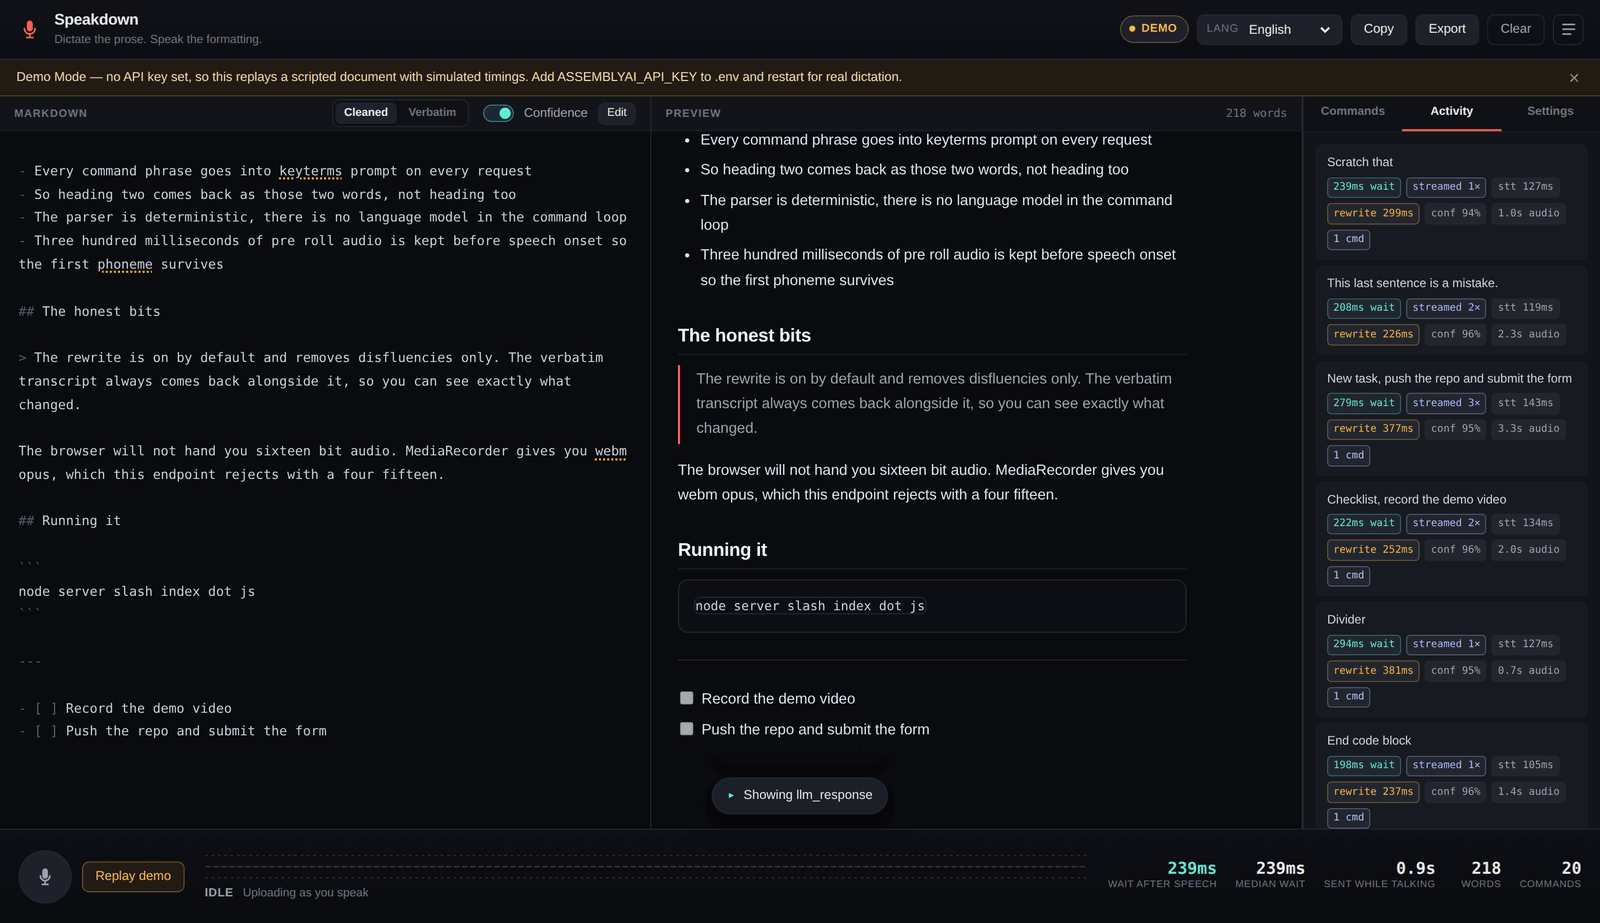
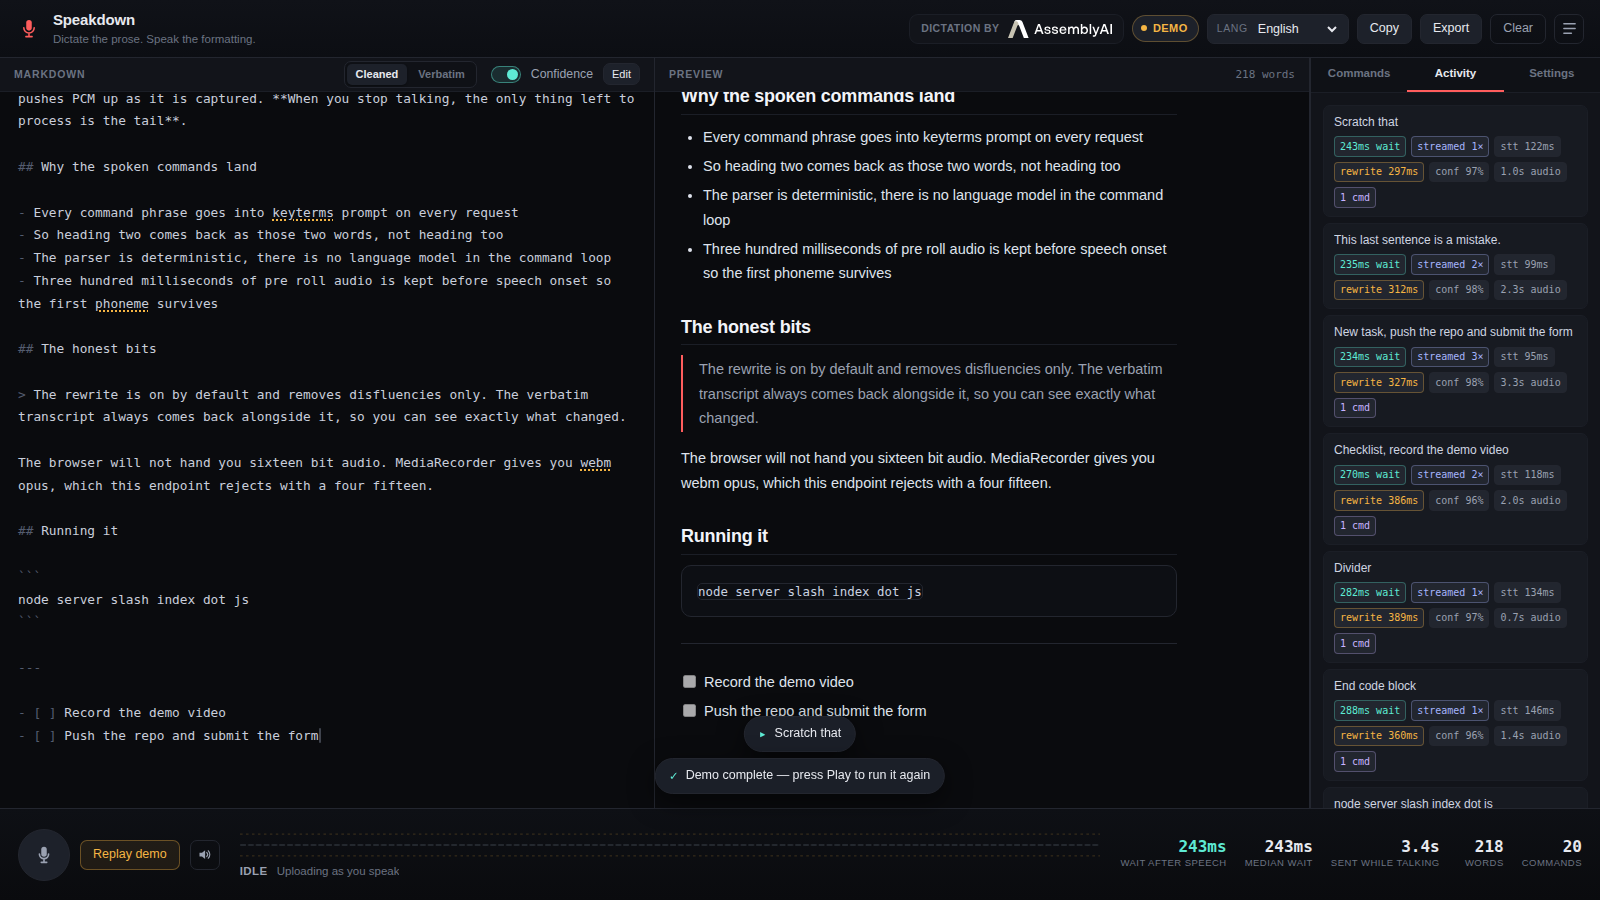
README: embed the 2-minute demo video, fresh screenshots, caret and hand-edit notes

diff --git a/README.md b/README.md
@@ -7,11 +7,15 @@ You talk; structured markdown appears. Say "heading two" and you get a heading.
 Say "bullet list" and you get a list. Say "scratch that" and the last thing you
 said disappears. No keyboard, no toolbar, no mouse.
 
-![Speakdown](docs/screenshot.png)
+<a href="https://www.loom.com/share/af9a5d7fbd77441190c862009f1a4126">
+  <img src="docs/loom-voiced.jpg" alt="Watch the 2-minute demo" width="100%">
+</a>
+
+**▶ [Watch the 2-minute demo](https://www.loom.com/share/af9a5d7fbd77441190c862009f1a4126)**
 
 Built for AssemblyAI's Voice Hackathon Week, September 2026.
-**Demo video:** <https://www.loom.com/share/fbd68c400d7c44d5bddbf64c3387c301>
-**The voiced demo, recorded:** <https://www.loom.com/share/af9a5d7fbd77441190c862009f1a4126>
+
+![Speakdown](docs/screenshot.png)
 
 ---
 
@@ -202,6 +206,13 @@ Separately, short phrases that occur in ordinary prose — "heading", "quote",
 "bold", "comma" — are marked strict, forcing at least boundary anchoring.
 Without it, "the quote was misattributed to him" silently becomes a blockquote.
 
+**You can see where the next words will land.** A caret sits in the source pane
+at the insertion point and blinks while you dictate. After a block command it
+moves to a line of its own carrying the markdown the next words will get —
+`- ` after "bullet list", `3. ` after the third "next number", `## ` after
+"heading two", a continuation indent after "new line" — so an empty block is
+visible before you have said anything into it.
+
 **"Strike that" means delete, not strikethrough.** That has been the dictation
 convention for fifty years and getting it backwards would be destructive. Say
 "strikethrough that" for `~~text~~`.
@@ -325,9 +336,10 @@ Streaming saves less on very short utterances than on long ones — there is
 simply less uploaded-but-unprocessed audio to overlap with. The docs say this
 too. On two-second clips the win is small; on fifteen-second ones it is obvious.
 
-Hand-editing the source pane discards the transcript log, so the Cleaned/Verbatim
-toggle stops working for that document. The alternative was letting a later
-toggle silently revert your edit, which is worse.
+Hand-editing the source pane turns the edited markdown into the floor the
+document is rebuilt from: the Cleaned/Verbatim toggle keeps working for
+everything dictated afterwards, but the text you typed no longer has a verbatim
+counterpart, so it reads the same in both views.
 
 Utterance segmentation is tuned for a reasonably quiet room with a close
 microphone. It degrades in a noisy open-plan office — a limitation of
